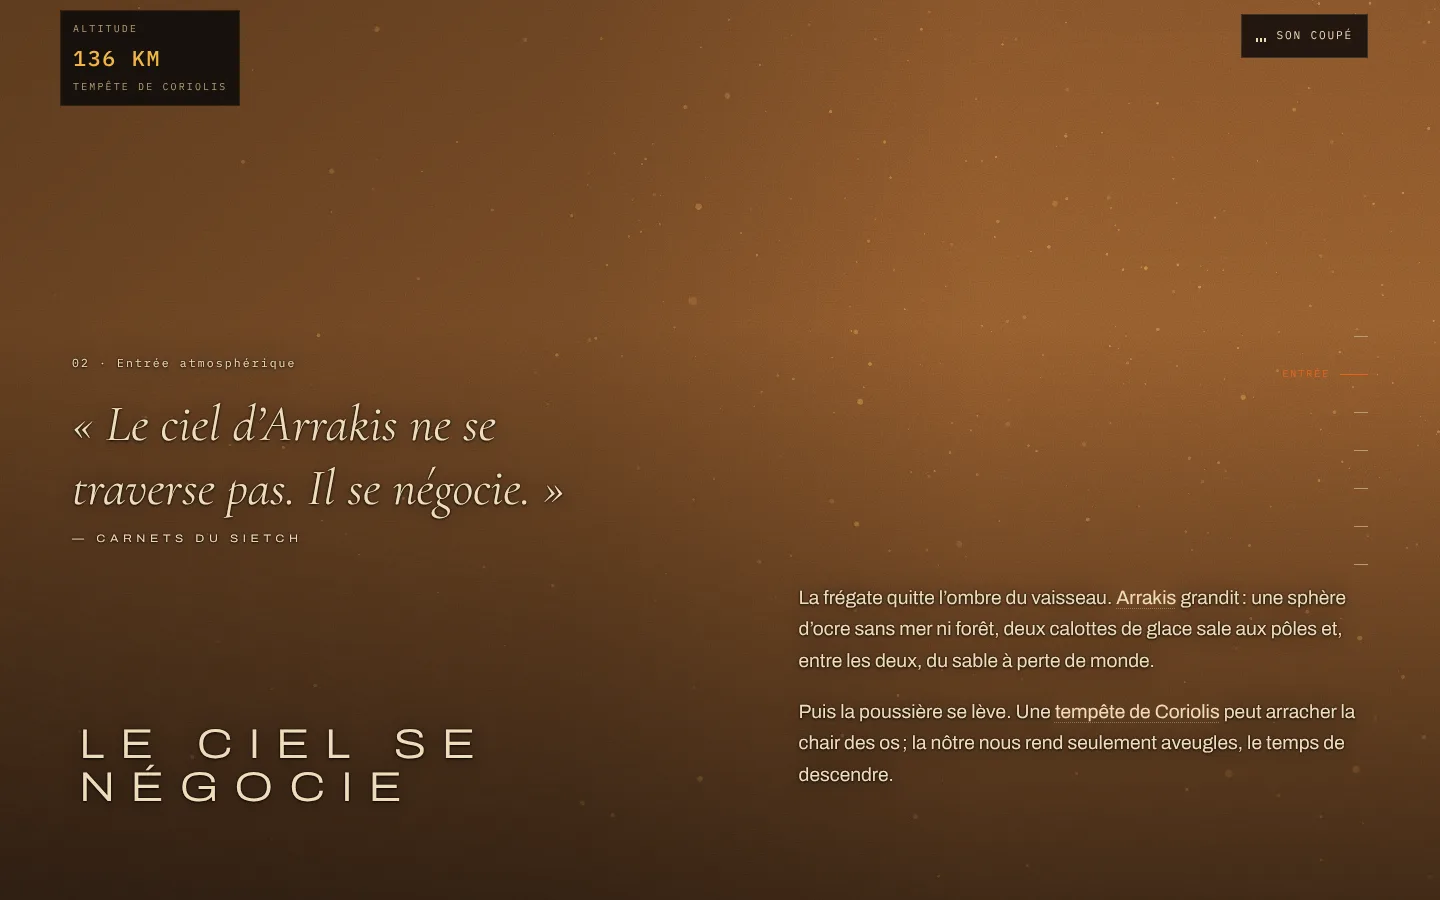
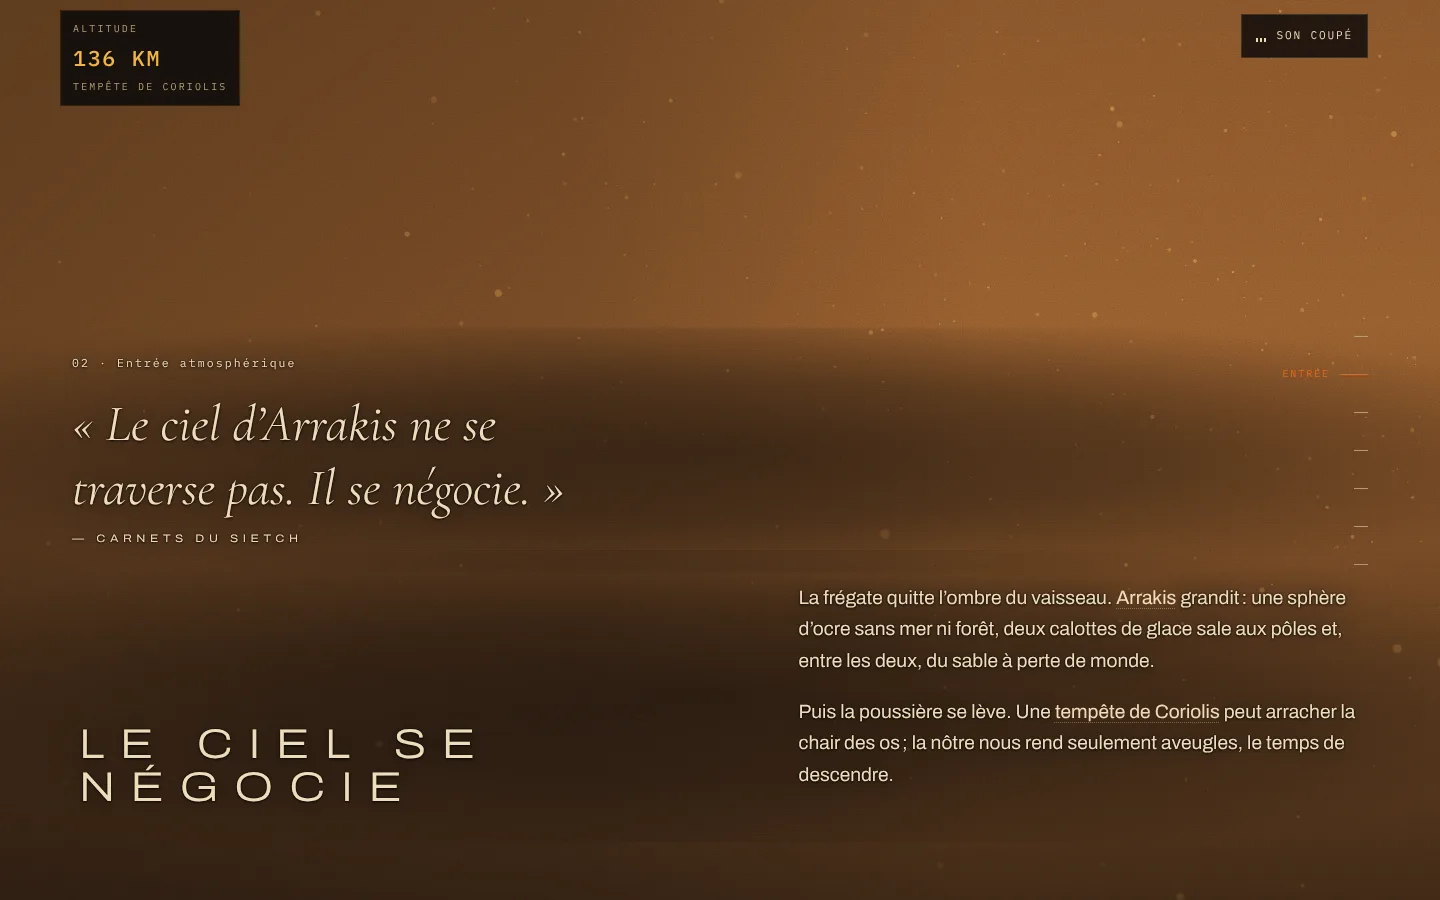
Lisibilité : ombre portée douce derrière chaque bloc de texte des scènes sur monde rendu (entrée, désert, épice) ; captures bureau du désert et de l'entrée refaites
Claude-Session: https://claude.ai/code/session_01TmTFqFyVjB4u53bqWWJJJg

Changed region(s): [[0.125, 0.3733, 0.9688, 0.8711]]

diff --git a/app/globals.css b/app/globals.css
@@ -175,6 +175,10 @@ main { position: relative; z-index: 1; }
 /* Voiles de lisibilité (jamais de flou) */
 .scene__veil { display: none; }
 .descent-veil { position: fixed; inset: 0; z-index: 0; pointer-events: none; background: linear-gradient(to right, rgba(11, 9, 8, 0.36) 0%, rgba(11, 9, 8, 0.24) 40%, rgba(11, 9, 8, 0) 68%), linear-gradient(to top, rgba(11, 9, 8, 0.66) 0%, rgba(11, 9, 8, 0.32) 38%, rgba(11, 9, 8, 0.08) 64%, rgba(11, 9, 8, 0.18) 100%); } /* C2 : colonne gauche un peu plus voilée (indice et signature du désert en plein jour mesurés à 3,3 et 4,3 sans le halo) */
+/* Ombre portée douce derrière chaque bloc de texte des scènes sur monde rendu (entrée, désert, épice) : le fond
+   mesuré sous le texte baisse d'un tiers même sur une crête de dune en plein jour, sans couture ni boîte (bords fondus). */
+.scene__sticky .scene__head, .scene__sticky .scene__body { position: relative; }
+.scene__sticky .scene__head::before, .scene__sticky .scene__body::before { content: ""; position: absolute; inset: -14% -10%; z-index: -1; pointer-events: none; background: radial-gradient(ellipse at 50% 50%, rgba(11, 9, 8, 0.55) 0%, rgba(11, 9, 8, 0.38) 40%, rgba(11, 9, 8, 0.12) 68%, rgba(11, 9, 8, 0) 82%); }
 /* Halo serré + halo large : le texte clair reste lisible sur le sable du plein jour (mesure : scripts/diag-contraste.mjs). */
 .scene__sticky, .hero { text-shadow: 0 0 2px rgba(0, 0, 0, 0.85), 0 1px 3px rgba(0, 0, 0, 0.75), 0 0 24px rgba(0, 0, 0, 0.62); } /* C2 : halo un peu plus dense (crêtes de dunes en plein jour sous les textes du désert) */
 .scene__sticky .scene__index, .hero .scene__index, .scene__sticky .epigraph cite, .hero .epigraph cite { color: var(--text); }
